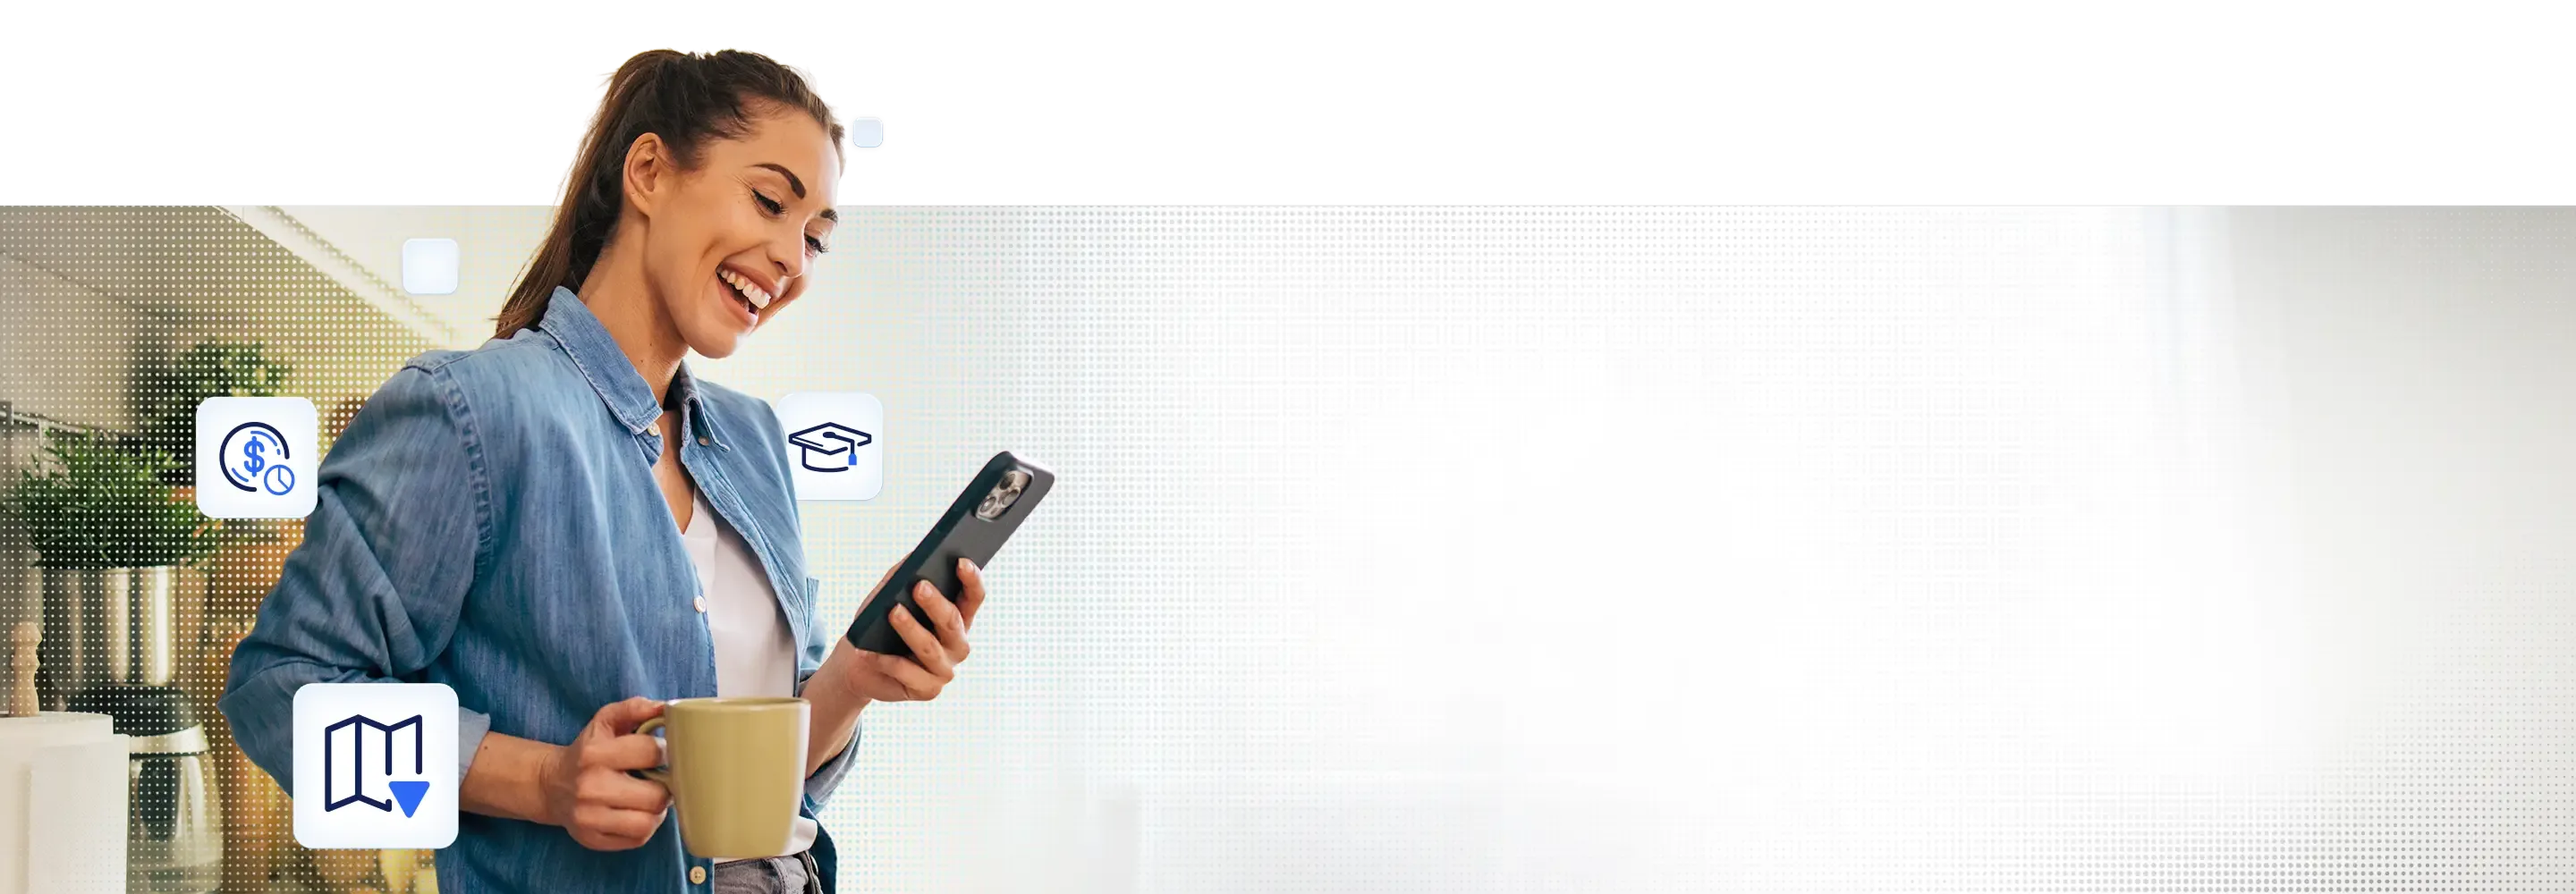
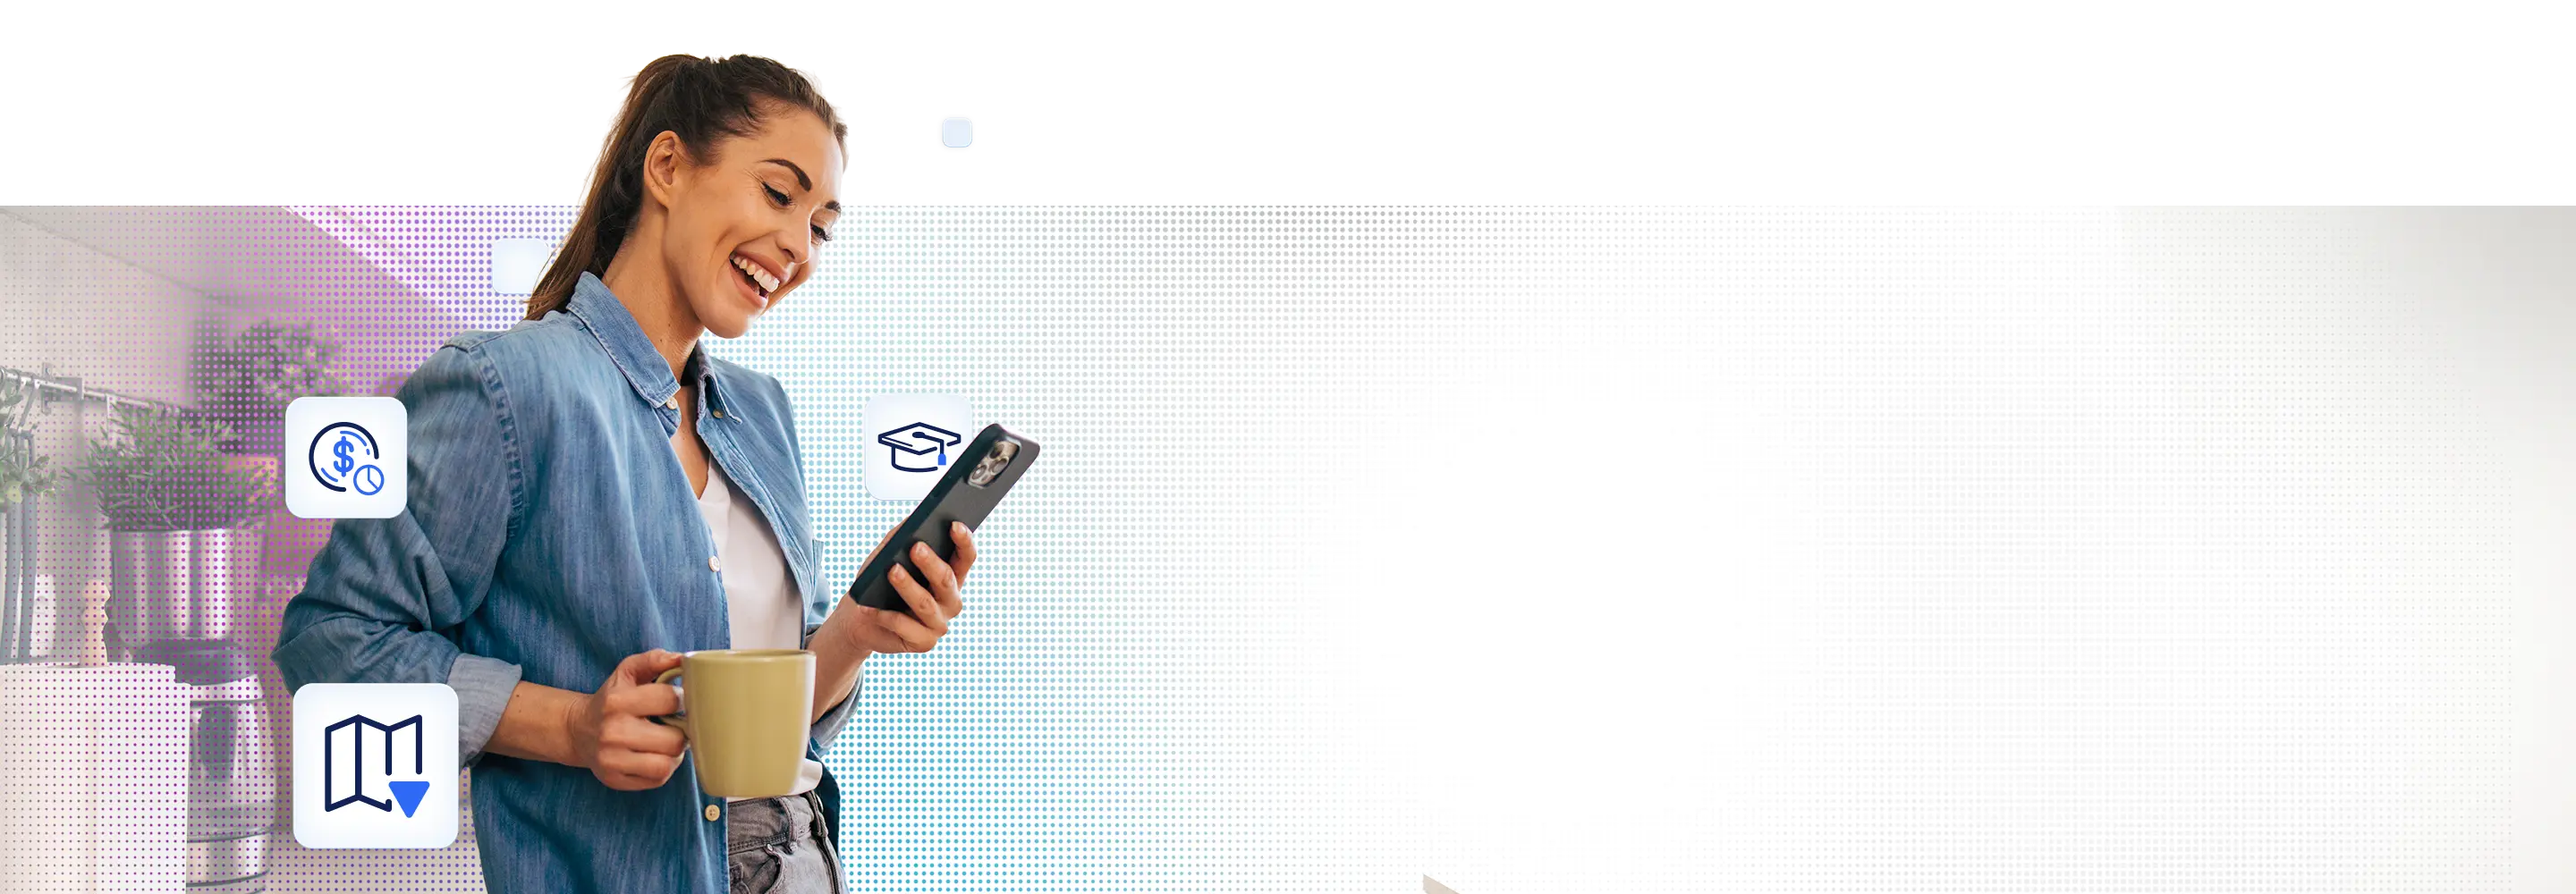
Add dedicated education split-frame image, update census tool image
- Education page: wire up new solution-split-unlimited-seats.webp instead
  of borrowing census-tool's split-frame-1.webp as a placeholder
- Census tool: update split-frame-1.webp asset
- Hero: revert mobile subtitle font-size override now that the compressed
  mobile layout no longer needs it; tighten text-body-p0 line-height on
  mobile globally

diff --git a/src/styles/design-system.css b/src/styles/design-system.css
@@ -525,6 +525,15 @@ h3,
     letter-spacing: var(--ls-subhead);
 }
 
+@media (max-width: 767px) {
+    .text-body-p0 {
+        /* Tighter than the --lh-relaxed every other body tier keeps: p0 runs
+           longest (subtitle-length paragraphs), so 1.4 reads noticeably
+           loose once the mobile hero compresses around it. */
+        line-height: var(--lh-normal);
+    }
+}
+
 .text-body-p0-bold {
     font-family: var(--font-body);
     font-size: var(--fs-body-xl);
